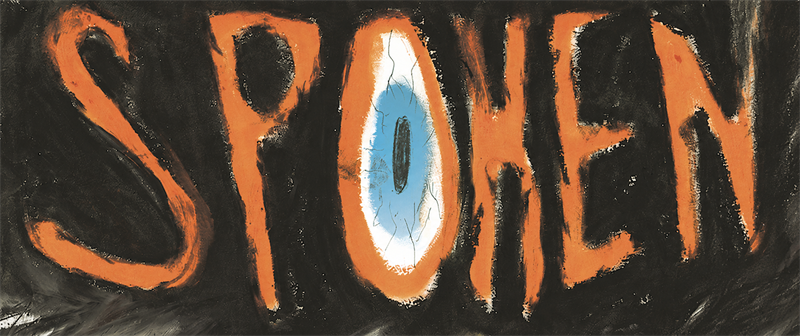
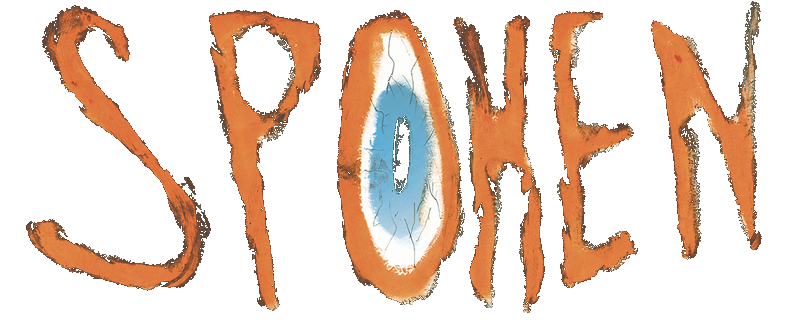
New transparent wordmark + soft-scrim top bar (from Claude Design)
Applied the external design tweak (only index.html + wordmark.png):
- New wordmark.png is a clean transparent cutout (orange lettering,
  blue eye), so its edge masks and the mix-blend-mode:lighten are no
  longer needed and are removed — it renders normally.
- Top bar goes from a solid black bar back to a soft top-down scrim
  (opaque where the logo/date sit, fading to transparent at the bottom
  edge) so the painted face artwork shows through the header again.
- Minor rendering hint on the date (translateZ/backface-visibility).

Verified: transparent PNG (32-bit ARGB, corners alpha 0) renders with
no box, eye still works, no console errors. All other recent work
(one-day programme, foreground mobile figures, eye-lid blink) untouched.

diff --git a/index.html b/index.html
@@ -96,13 +96,9 @@
   /* the painted SPOKEN wordmark — its O is a living eye */
   .wordmark{
     position:relative; width:clamp(200px,21vw,330px); flex-shrink:0;
-    -webkit-mask-image:linear-gradient(0deg, transparent, black 14%, black 86%, transparent);
-    mask-image:linear-gradient(0deg, transparent, black 14%, black 86%, transparent);
   }
   .wm-img{
     width:100%; display:block;
-    -webkit-mask-image:linear-gradient(90deg, transparent, black 7%, black 93%, transparent);
-    mask-image:linear-gradient(90deg, transparent, black 7%, black 93%, transparent);
   }
   .eye{ position:absolute; left:42.6%; top:1.5%; width:16%; height:97%; pointer-events:none; }
   .eye-clip{ position:absolute; inset:0; clip-path:ellipse(26% 30% at 50% 48%); overflow:hidden; }
@@ -261,11 +257,11 @@
     position:fixed; top:0; left:0; right:0; z-index:70;
     min-height:var(--topbar-h); padding-top:calc(env(safe-area-inset-top,0px) + 16px); padding-bottom:14px;
     display:flex; align-items:center; justify-content:flex-end; gap:14px; padding-left:clamp(14px,2.4vw,26px); padding-right:clamp(14px,2.4vw,26px);
-    /* solid black bar (per Vonk en Zonen): the logo + date read clearly and
-       scrolling content passes cleanly UNDER the header instead of floating
-       behind it. A hairline underline gives the bar a clean edge. */
-    background:#0b0a09;
-    border-bottom:1px solid rgba(239,233,221,0.10);
+    /* soft top-down scrim instead of a hard black bar: no divider line, and the
+       painted face artwork shows THROUGH the header, while the gradient keeps
+       the logo + date legible and lets scrolled content fade under the edge. */
+    background:linear-gradient(180deg, rgba(11,10,9,0.96) 0%, rgba(11,10,9,0.86) 52%, rgba(11,10,9,0.45) 80%, rgba(11,10,9,0) 100%);
+    border-bottom:0;
   }
   /* the one SPOKEN eye sits centred; the +16px top padding above pushes the
      wordmark + date down off the very top edge */
@@ -277,9 +273,12 @@
      and the blue iris follower only — NOT the blink lids: lighten-blending the
      semi-transparent orange lids let the blue bleed through and flash orange,
      so the blink read as a muddy orange hue instead of a clean, cool close. */
-  .topbar .wm-img, .topbar .eye-iris img{ mix-blend-mode:lighten; }
+  /* orange wordmark keeps its OWN black ground (normal blend, not lighten): the
+     black background stays black and melts into the dark header via the edge
+     masks, so SPOKEN falls into the background instead of the busy face-art
+     showing through the letters. The eye iris/lids stay normal too. */
   .topbar .eye-lid{ mix-blend-mode:normal; }
-  .tb-date{ font-family:var(--f-display); font-weight:700; font-size:clamp(21px,2.1vw,32px); letter-spacing:0.06em; color:var(--yellow); transform:rotate(-3deg); white-space:nowrap; text-shadow:0 2px 12px rgba(0,0,0,0.6); }
+  .tb-date{ font-family:var(--f-display); font-weight:700; font-size:clamp(21px,2.1vw,32px); letter-spacing:0.06em; color:var(--yellow); transform:rotate(-3deg) translateZ(0); backface-visibility:hidden; white-space:nowrap; text-shadow:0 2px 12px rgba(0,0,0,0.6); }
 
   .segwrap{ display:flex; align-items:center; background:rgba(11,10,9,0.5); border:1px solid rgba(255,255,255,0.14); border-radius:999px; overflow:hidden; }
   .segwrap .label{ padding:0 12px 0 14px; font-family:var(--f-mono); font-size:9px; letter-spacing:0.18em; color:rgba(255,255,255,0.4); }
